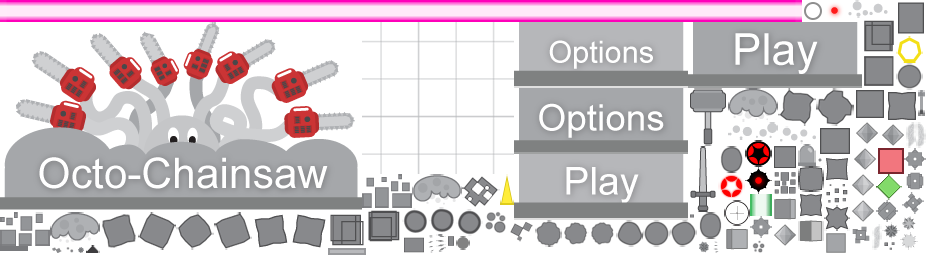
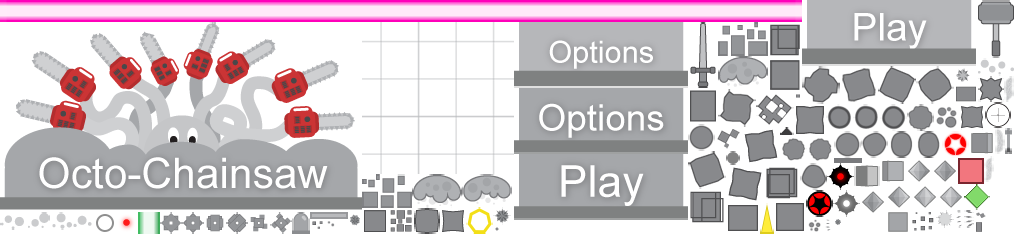
Adding in a white version of the enemy for tinting purposes

diff --git a/src/js/game-objects/enemies/shadow-enemy.js b/src/js/game-objects/enemies/shadow-enemy.js
@@ -7,7 +7,7 @@ var spriteUtils = require("../../helpers/sprite-utilities.js");
 ShadowEnemy.prototype = Object.create(BaseEnemy.prototype);
 
 function ShadowEnemy(game, x, y, parentGroup, color) {
-    BaseEnemy.call(this, game, x, y, "assets", "shadow-enemy/idle-01", 100,
+    BaseEnemy.call(this, game, x, y, "assets", "shadow-enemy/tintable-idle", 100,
         parentGroup, 1, color);
 
     // Temp fix: move the health bar above the shadow/light layer
